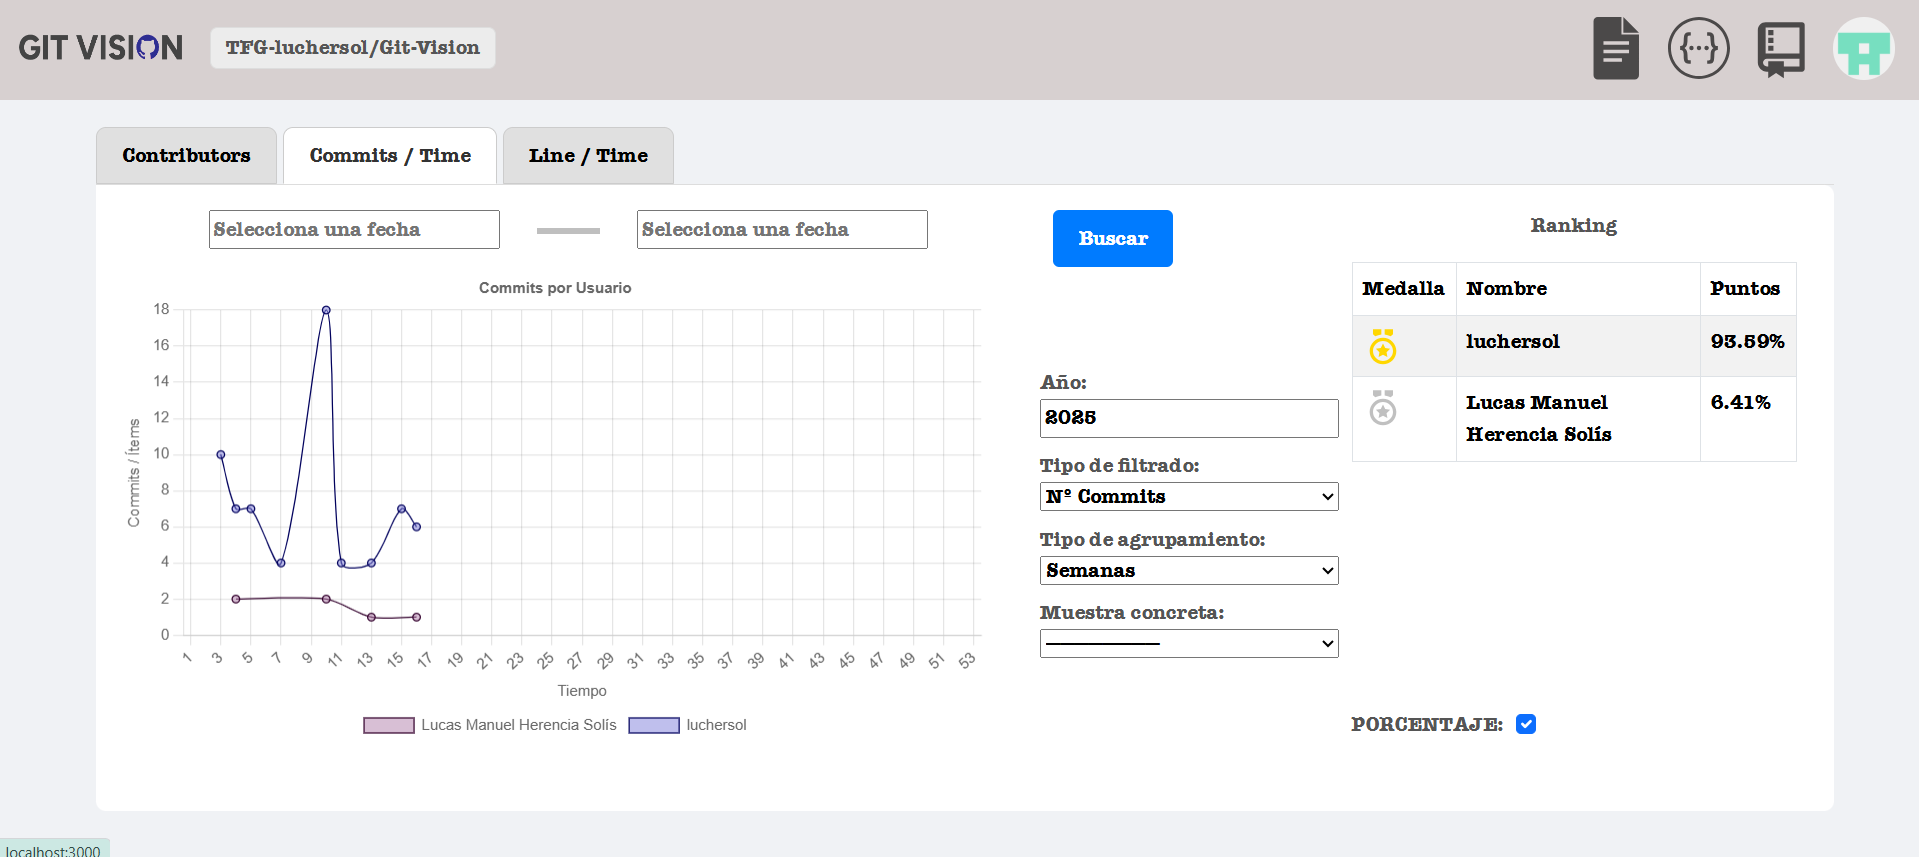
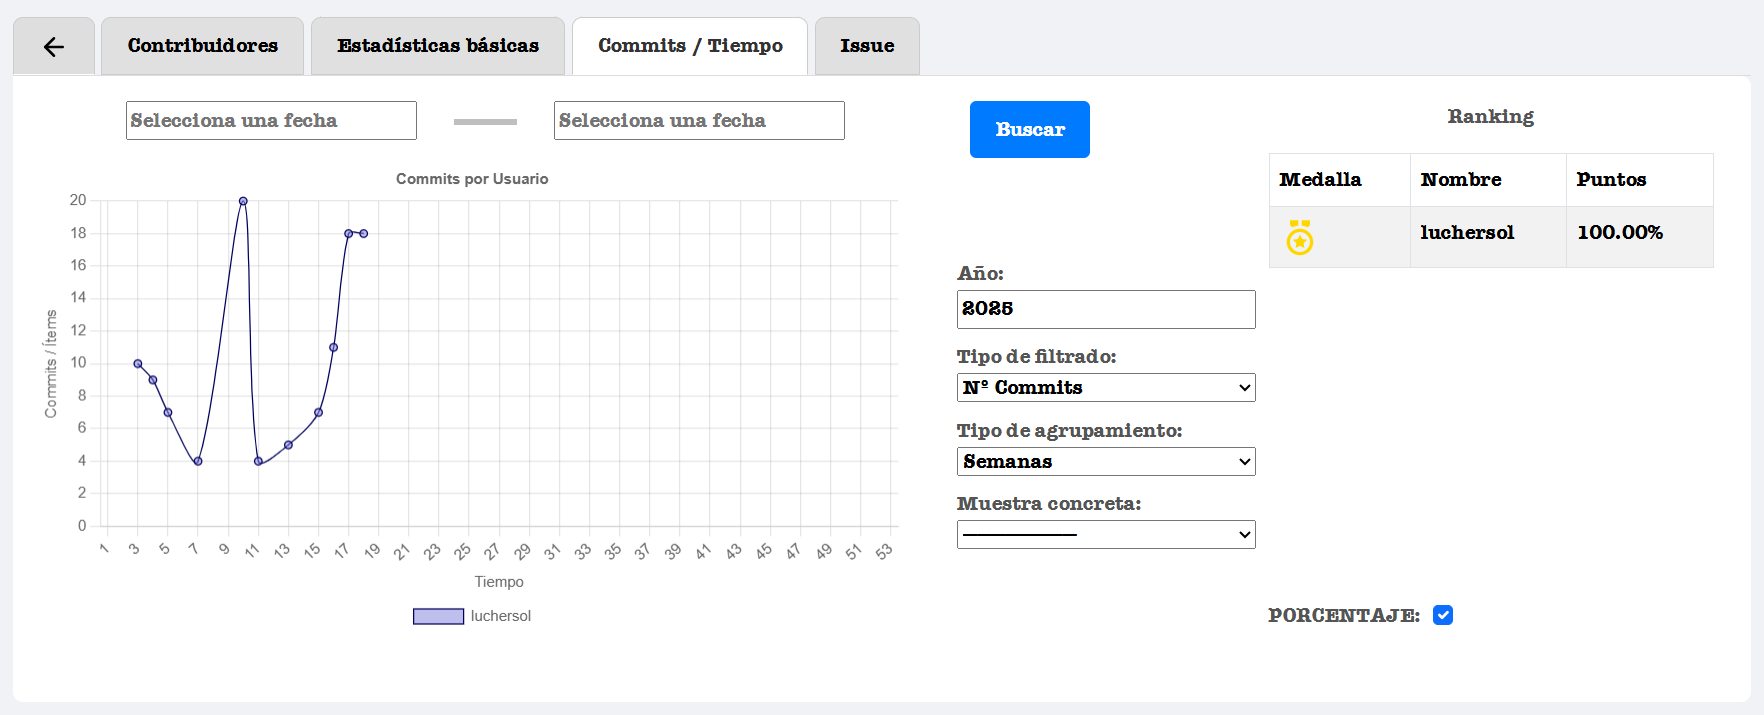
[CHORE]: Actualización de documentación #14

diff --git a/frontend/public/docs/index.md b/frontend/public/docs/index.md
@@ -156,7 +156,7 @@ Gestiona la relación que existe entre el usuario de Clockify de dicho Workspace
 
 ## Listado de Archivos
 
-Navegación por la estructura de carpetas y archivos de cada repositorio y visualización tanto de gráfica de lenguajes del repositorio con la posibilidad de ver el porcentaje o tamaño en bytes de su totalidad y tabla de contador de extensiones del archivo.
+Navegación por la estructura de carpetas y archivos de cada repositorio y visualización tanto de gráfica de lenguajes del repositorio con la posibilidad de ver el porcentaje o tamaño en bytes de su totalidad, tabla de contador de extensiones del archivo y listado de ramas y realeases del repositorio.
 
 > ℹ **Info**: Aquellos archivos que no tengan una extensión que se haya podido extraer serán marcados que su extensión es "Unknown".
 
@@ -194,6 +194,13 @@ Accede a un listado completo de commits por orden cronológico.
 
 ![Commits](./img/commits.png)
 
+> ℹ **Info**: Dentro del listado se puede realizar un filtrado de 3 diferentes formas:
+> - Contenido del mensaje (por defecto)
+> - Regex (pulsar el primer icono)
+> - Autor (pulsar el segundo icono)  
+> Para realizar dicho filtrado deberás pulsar a la lupa luego de introducir el contenido necesario en el input.
+Para realizar el filtrado por autor se debe de poner el nombre del usuario de github, de forma que así se realizará una búsqueda respecto a la configuración. En caso de querer limpiar los filtros, pulsa la X
+
 ### Detalles de Commit
 
 Visualiza detalles de cada commit:
@@ -217,6 +224,13 @@ Consulta todas las issues relacionadas con el repositorio.
 
 ![Issues](./img/issues.png)
 
+> ℹ **Info**: Dentro del listado se puede realizar un filtrado de 3 diferentes formas:
+> - Contenido del titulo (por defecto)
+> - Regex (pulsar el primer icono)
+> - Número de issues (pulsar el segundo icono)  
+> Para realizar dicho filtrado deberás pulsar a la lupa luego de introducir el contenido necesario en el input. 
+En el caso de filtrado por número de issues se debe de seguir el formato de números separados por comas (Ej: "1,2,3,4"). En caso de querer limpiar los filtros, pulsa la X.
+
 ### Detalles de Issue
 
 - Titulo de la issue
@@ -238,7 +252,7 @@ Consulta todas las issues relacionadas con el repositorio.
 
 ## Contribuidores
 
-Dentro del apartado de contribuidores se pueden
+Dentro del apartado de contribuidores se pueden ver los siguientes puntos.
 
 ### Listado de Contribuidores
 
@@ -267,6 +281,18 @@ Además del listado de archivos cambiados junto a su número de cambios, se podr
 
 ---
 
+### Estadísticas básicas
+
+Tras pulsar el botón "Buscar", una vez carguen los datos, se podrá visualizar información básica del repositorio tales como:
+
+- Número de commits
+- Issues abiertas / cerradas
+- Pull request abiertas / cerradas
+
+![Basic_Statistics](./img/basic_statistics.png)
+
+---
+
 ### Visualización de Commits en el Tiempo
 
 Se puede realizar una visualización gráfica de los cambios realizados por cada usuario
@@ -289,7 +315,11 @@ Dichas contribuciones se pueden visualizar a través de adiciones, borrados o ca
 
 En caso de tener enlazada una cuenta de Clockify, podrás añadir otros campos y visualizar una nueva forma de la gráfica que representará dichas contribuciones partidas por el tiempo empleadas en ella a través de cierta trazabilidad por Clockify. Por defecto, se tomará que el nombre de las tasks enlazadas a dichas issues tendrá el mismo nombre que las mismas (Por ejemplo: Si buscas la issue número 1, la task será #1, si buscas la issue por nombre "Generar Login", las tasks asociadas serán "Generar Login"). En caso de querer que el nombre de la task sea otro diferente, se permitirá poner en el campo opcional existente
 
-![Contributions_Issue_With_Clockify](./img/contributors_issue_with_clockify.png)
+![Contributions_Issue_With_Clockify_Normal](./img/contributors_issue_with_clockify_normal.png)
+
+Además de esta forma de visualización, también estará disponible visualizar la versión invertida, realizando de esta forma la comparación de cuanto tiempo se requiere para realizar un cambio.
+
+![Contributions_Issue_With_Clockify_Inverted](./img/contributors_issue_with_clockify_inverted.png)
 
 ---
 
